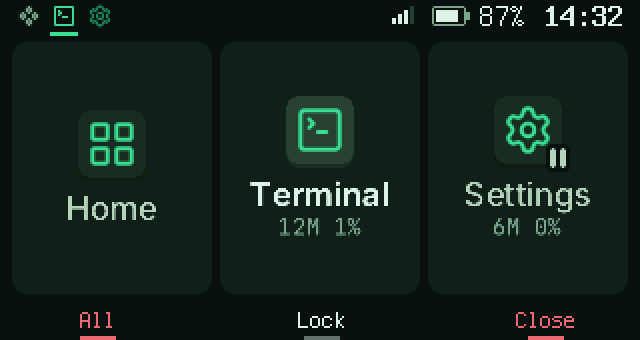
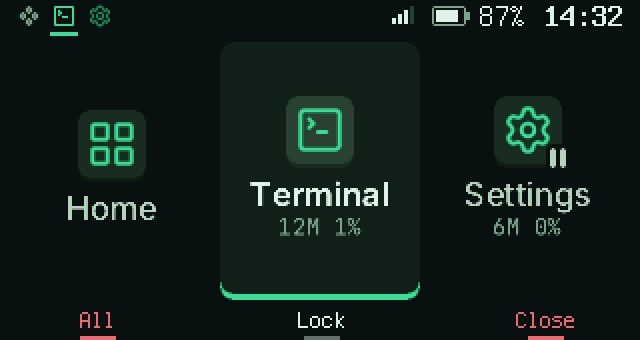
Switcher: the selected card stands out
Every card stood on a pane, so the selected one differed only by its
foot. Now only the selected card has a pane, as home's tiles, and its foot
is accent, as the dock's mark above it.

Changed region(s): [[0.3438, 0.8235, 0.6562, 0.8824]]

diff --git a/crates/gh0st-ui/src/widgets.rs b/crates/gh0st-ui/src/widgets.rs
@@ -823,6 +823,15 @@ pub fn selection(c: &mut Canvas, t: &Theme, r: Rect) {
     c.pane(r, t.m.radius_large, t.c.surface);
 }
 
+/// The switcher's selected card: a pane on an `accent` foot, as the dock's
+/// mark above it. Cards are large and sit on a picture, where a dark foot
+/// is hard to see.
+pub fn card_selection(c: &mut Canvas, t: &Theme, r: Rect) {
+    let under = Rect::new(r.x, r.y + t.m.lift + 1, r.w, r.h);
+    c.round_rect(under, t.m.radius_large, t.c.accent);
+    c.pane(r, t.m.radius_large, t.c.surface);
+}
+
 /// What a grid tile or list row shows for one app.
 pub struct AppItem<'a> {
     pub label: &'a str,
@@ -996,9 +1005,8 @@ pub struct Card<'a> {
 /// A card without its selection frame: a thin edge so it reads as a card,
 /// then its content.
 pub fn card_content(c: &mut Canvas, t: &Theme, r: Rect, card: &Card, selected: bool) {
-    if !selected {
-        c.pane(r, t.m.radius_large, t.c.surface);
-    }
+    // Only the selected card stands on a pane, as on home: the rest sit on
+    // the page, so the one in front of you is the one that stands out.
     let b = t.m.badge;
     // Badge, name and line as one block, centred in the card.
     let has_line = !card.note.is_empty() || card.stats.is_some();

diff --git a/crates/gh0st-shell/src/switcher.rs b/crates/gh0st-shell/src/switcher.rs
@@ -352,7 +352,7 @@ impl Switcher {
             None => (to, 0),
         };
         let old = c.set_clip(widgets::body(t));
-        widgets::selection(c, t, frame);
+        widgets::card_selection(c, t, frame);
         // One card past each edge, so a scroll never shows a gap.
         for slot in -1..=self.geo.per as i32 {
             let index = self.top as i32 + slot;

diff --git a/crates/gh0st-ui/examples/updates.rs b/crates/gh0st-ui/examples/updates.rs
@@ -877,7 +877,7 @@ fn n_switcher(t: &Theme) -> Canvas {
             paused: false,
         };
         if i == 1 {
-            widgets::selection(&mut c, t, r);
+            widgets::card_selection(&mut c, t, r);
         }
         widgets::card_content(&mut c, t, r, &cd, i == 1);
     }

diff --git a/crates/gh0st-ui/examples/design.rs b/crates/gh0st-ui/examples/design.rs
@@ -1179,7 +1179,7 @@ fn switcher_base(t: &Theme) -> Canvas {
             paused,
         };
         if i == 1 {
-            widgets::selection(&mut c, t, r);
+            widgets::card_selection(&mut c, t, r);
         }
         widgets::card_content(&mut c, t, r, &cd, i == 1);
     }

diff --git a/docs/design.md b/docs/design.md
@@ -331,7 +331,9 @@ flat colour on a darker foot (`theme::foot`): 2 px under an app badge, a
 selected tile or card, a dialog and a toast (`Metrics::lift`); 1 px under
 a settings row's icon, a selected row, a key pill and a tag
 (`Metrics::chip_lift`). What is selected stands up off the page; nothing
-draws a ring around it. Corners are
+draws a ring around it. Only the selected tile or card stands: the rest
+sit flat on the page. A switcher card is large and sits on a picture, so
+its foot is `accent`, as the dock's mark above it. Corners are
 round and smoothed: 4 px on rows and chips, 5 on app badges, 6 on tiles
 and panes, 7 on cards, 2 on key pills. Every effect is a flat fill, a fill
 that steps from one colour to another, or a picture baked once: nothing
